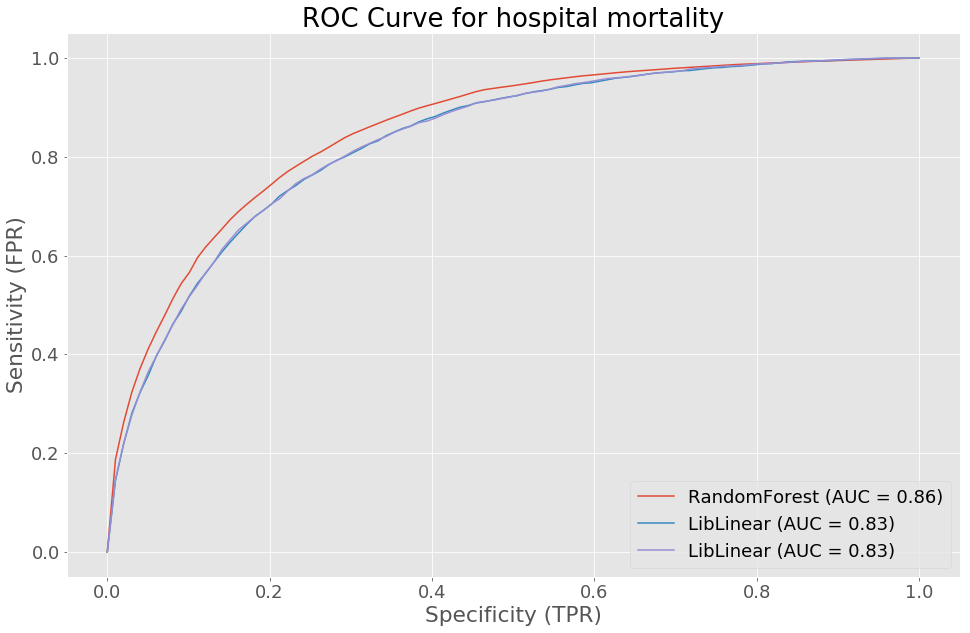
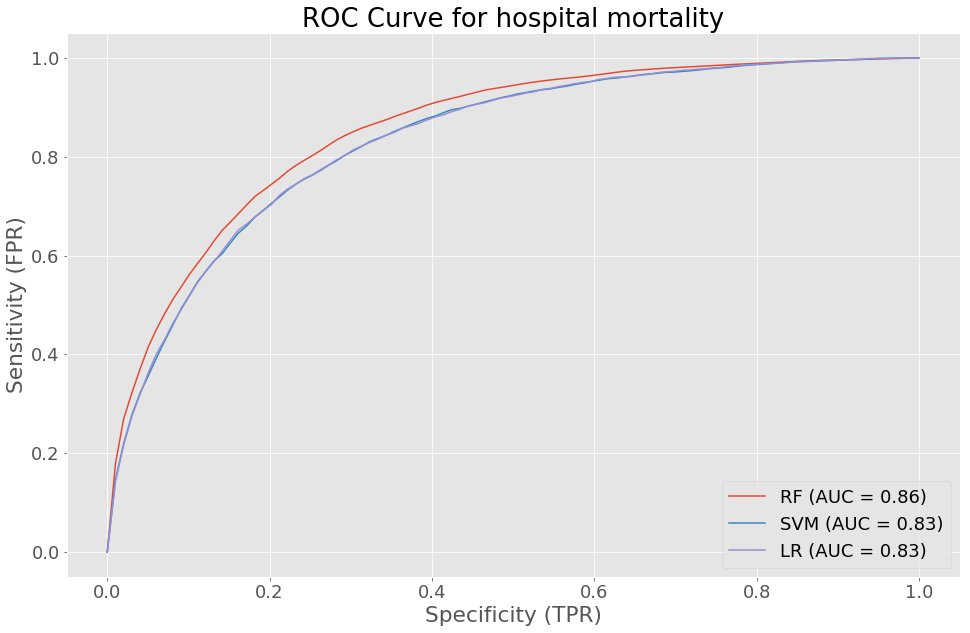
fixed plot

diff --git a/_posts/2017-08-07-gsoc-week8-9.md b/_posts/2017-08-07-gsoc-week8-9.md
@@ -7,7 +7,7 @@ tags: [gsoc, data-science, machine-learning]
 
 These past weeks, I successfully completed my [first patch](https://github.com/olinguyen/shogun/commit/68517acd3cccc337e0bbbab59633eb41476fc567) to the Shogun toolbox. This patch allows `BinaryLabels` or `MulticlassLabels` to be initialized using a vector or matrix of confidence scores. This avoids having to set labels or scores again independently after creating the object, and ended up being useful for [another patch](https://github.com/shogun-toolbox/shogun/pull/3954) I am working on which will produce a probability output score for the Random Forest classifier. This is accomplished by using the predicted output labels from all the deciding trees and computing their weight/ratio. For instance, if a Random Forest classifier uses 10 trees to make a prediction, and 7 trees predicted the binary outcome of +1, then the probability of class 1 is 0.70.
 
-With the latest patch, I evaluated the random forest classifier using the MIMIC database for mortality prediction and compared it to the previous Shogun classifiers. Random forest a slight improvement over logistic regression and support vector machines when observing the mean AUC across 10 folds.
+With the latest patch, I evaluated the random forest classifier using the MIMIC database for mortality prediction and compared it to the previous Shogun classifiers. Random forest a slight improvement over logistic regression and support vector machines when observing the mean AUC across 10 folds. The notebook for computing these was updated in the link [here](https://github.com/olinguyen/gsoc2017-shogun-dataproject/blob/master/Improved%20Model.ipynb).
 
 
 | Classifier          | Mean AUC across 10 folds (%) |
